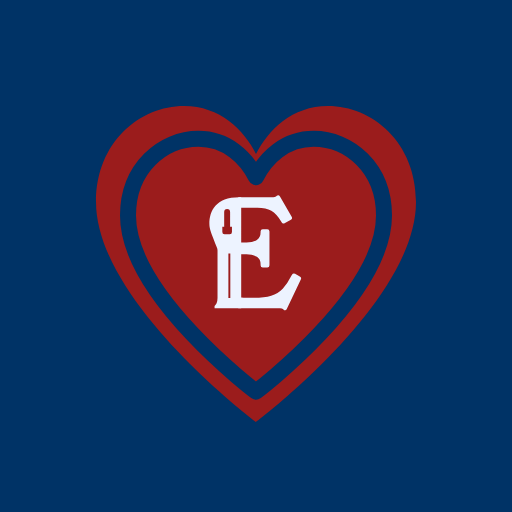
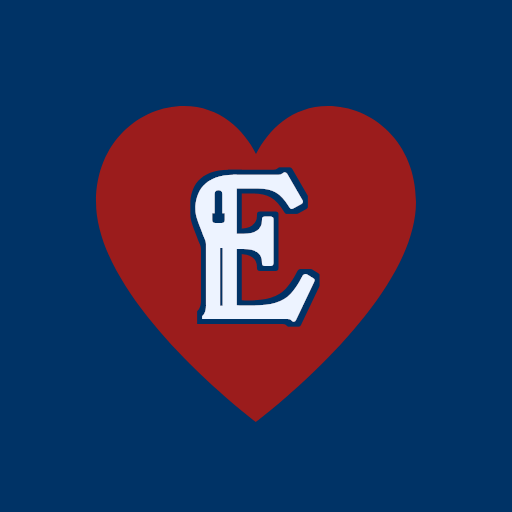
Poker Hub v1.3.9: a solid red heart that keeps its blue in iOS Dark
The heart is solid again; the pale scalpel-E has a thin Prussian edge.
Phone test, 21/11/2026, Home Screen set to Dark: blue E, blue E with a
pale outline, and this pale E with a blue edge all kept the blue; a bold
blue E went black. apple-touch-icon.png is byte-for-byte the image that
passed and the tests pin it.

The temporary icon-test/ pages are removed.

Claude-Session: https://claude.ai/code/session_01KXqnyGJbYEB73Y75yW7M9b

Changed region(s): [[0.2188, 0.25, 0.7812, 0.7812]]

diff --git a/index.html b/index.html
@@ -9,16 +9,16 @@
 <meta name="mobile-web-app-capable" content="yes">
 <meta name="apple-mobile-web-app-status-bar-style" content="black">
 <meta name="eds-version" content="2.0.0">
-<meta name="app-version" content="1.3.8">
+<meta name="app-version" content="1.3.9">
 <meta name="theme-color" content="#050a0e" media="(prefers-color-scheme: dark)">
 <meta name="theme-color" content="#edf3ff" media="(prefers-color-scheme: light)">
 <meta name="description" content="One store for the home game: buy-ins, hands, reads, settlement, ledger.">
 <!--
-  Poker Hub 1.3.8 · EDB design system 2.0.0
+  Poker Hub 1.3.9 · EDB design system 2.0.0
   Single file, zero network requests, works from file:// and from GitHub Pages
-  Built 2026-11-19 · © Ernest Tung
+  Built 2026-11-21 · © Ernest Tung
 -->
[2 lines of base64/hex data omitted]
 <link rel="apple-touch-icon" href="./apple-touch-icon.png">
 <link rel="manifest" href="./manifest.webmanifest">
 <script>
@@ -11268,7 +11268,7 @@ window.MARK_PATHS = {
 (function () {
   'use strict';
 
-  var APP_VERSION = '1.3.8';
+  var APP_VERSION = '1.3.9';
   var EDS_VERSION = '2.0.0';
 
   var Settle = window.PHSettle, Layers = window.PHLayers, Ident = window.PHIdentity;

diff --git a/README.md b/README.md
@@ -1,4 +1,26 @@
-# Poker Hub — v1.3.8 · a heart that stays blue
+# Poker Hub — v1.3.9 · a solid heart that stays blue
+
+### What changed in v1.3.9 (21/11/2026)
+
+- **The heart is solid red again** — no blue line inside. The pale
+  scalpel-E now has a thin Prussian edge, and that edge is what keeps the
+  tile blue in iOS's Dark icon style.
+- **Chosen by a second phone test, 21/11/2026**, Home Screen set to Dark:
+
+  | Icon | Dark |
+  |---|---|
+  | blue E | blue |
+  | blue E, pale outline | blue |
+  | pale E, blue edge (this one) | blue |
+  | bold blue E | black |
+
+  Every icon that kept its blue (both tests) has blue walled off inside
+  the shape; the bold E had the most and still went black, so it is not a
+  matter of amount. Apple doesn't document the rule.
+- **Pinned again.** `apple-touch-icon.png` is byte-for-byte the image that
+  passed, and the tests check it; any redraw needs a new phone test.
+- The temporary `icon-test/` pages are removed.
+- Remove the icon and add it again to pick it up — back up first.
 
 ### What changed in v1.3.8 (19/11/2026)
 
@@ -434,7 +456,7 @@ downloads them as before.
 **Icon B1.** The carmine heart Ernest chose in August, with the scalpel-E
 now in ink `#edf3ff` instead of knocked out in Prussian — the one change
 that rescues it at 16 px (merge spec §15). Regenerated at every size.
-(Replaced by the playing card in 1.3.6; back in 1.3.7; given its inner line in 1.3.8.)
+(Replaced by the playing card in 1.3.6; back in 1.3.7; given an inner line in 1.3.8; solid again, the E edged in blue, in 1.3.9.)
 
 **Two latent test bugs fixed.** `test_import.mjs` §9 and `test_browser.mjs`
 only passed in US Eastern time: the tracker fixture's first buy-in was
@@ -1234,8 +1256,8 @@ index.html              the app — build output, do not edit
 sw.js                   offline start, beside it
 manifest.webmanifest    beside it, relative paths
 apple-touch-icon.png    the home-screen icon (180), and icon-192/-512,
-icon-*.png              icon-maskable-512 for the manifest: carmine heart
-                        with a Prussian line inside, pale scalpel-E, on
+icon-*.png              icon-maskable-512 for the manifest: solid carmine
+                        heart, pale scalpel-E with a thin Prussian edge, on
                         full-bleed Prussian — rendered by make-icons.mjs;
                         the touch icon is pinned to the phone-tested image
 src/icon.svg            the one drawing every icon comes from
